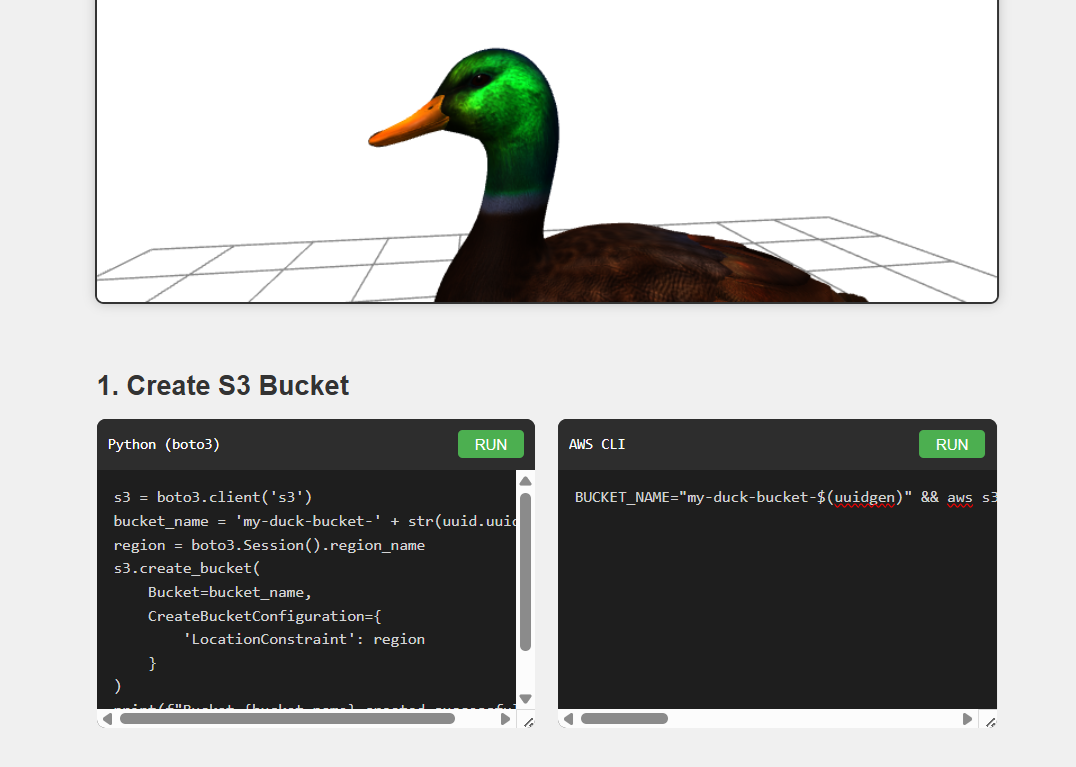
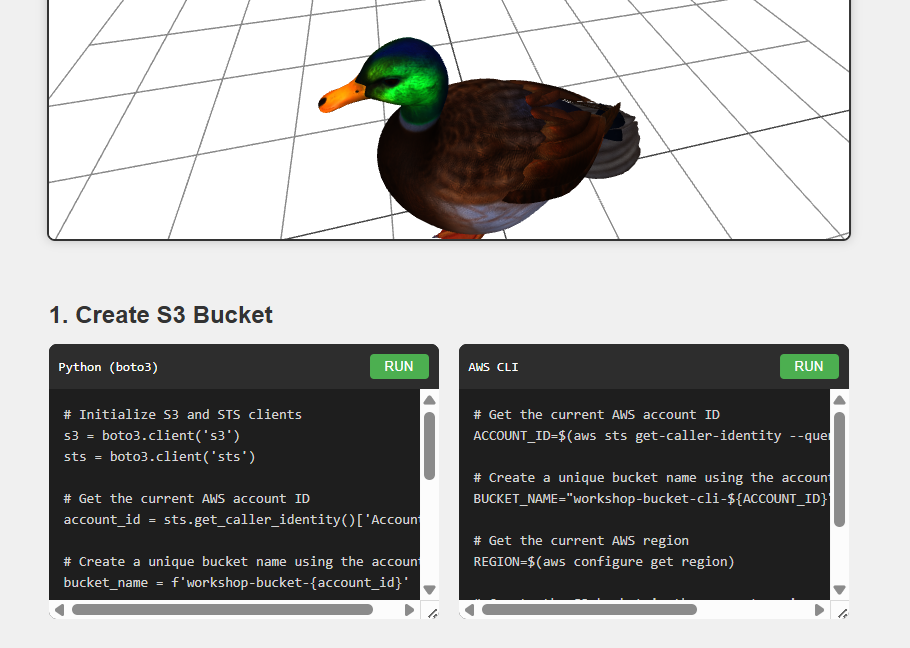
images

diff --git a/README.md b/README.md
@@ -162,28 +162,30 @@ Below the duck, there are code snippets. Move on the "Storage bucket" chapter.
 If you have enabled the user interface, you should find consoles under the duck.
 You have the choice between running a Python script or running a CLI command. 
 
-(Missing image)
+![Create S3 bucket](README_images/create_s3_bucket.png)
 
 </details>
 
 <details>
 <summary>Check the S3 bucket has been properly created</summary>
 
-(Missing image)
+Since S3 buckets must be unique across all AWS users, only one of us could name the bucket "workshop-bucket". That's why the script adds your account ID in the name.  
+
+![Created S3 bucket](README_images/created_s3_bucket.png)
 
 </details>
 
 <details>
 <summary>Upload duck.glb to S3</summary>
 
-(Missing image)
+![Upload S3 bucket](README_images/upload_s3_bucket.png)
 
 </details>
 
 <details>
 <summary>Check the duck is in the S3 bucket</summary>
 
-(Missing image)
+![Uploaded S3 bucket](README_images/uploaded_s3_bucket.png)
 
 </details>
 
@@ -191,9 +193,12 @@ You have the choice between running a Python script or running a CLI command.
 <summary>Download oxford.glb from the bucket</summary>
 
 First, you need to modify the upload code to upload "oxford.glb" instead of "duck.glb", and run it again. 
+
+![Upload S3 bucket](README_images/reupload_s3_bucket.png)
+
 Then, you can use the third code snippet to download oxford.glb. 
 
-(Missing image)
+![Download S3 bucket](README_images/download_s3_bucket.png)
 
 </details>
 
@@ -202,7 +207,7 @@ Then, you can use the third code snippet to download oxford.glb.
 
 The 3D model should now be the door to St. Cross College. 
 
-(Missing image)
+![Downloaded S3 bucket](README_images/downloaded_s3_bucket.png)
 
 </details>
 
@@ -211,16 +216,14 @@ The 3D model should now be the door to St. Cross College.
 
 Run the fourth snippet to delete the bucket. 
 
-(Missing image)
+![Cleanup S3 bucket](README_images/cleanup_s3_bucket.png)
 
 </details>
 
 <details>
 <summary>Check that the S3 bucket is deleted</summary>
 
-Again, after running the code, check in the S3 console that it worked. 
-
-(Missing image)
+![Cleaned S3 bucket](README_images/cleaned_s3_bucket.png)
 
 </details>
 
